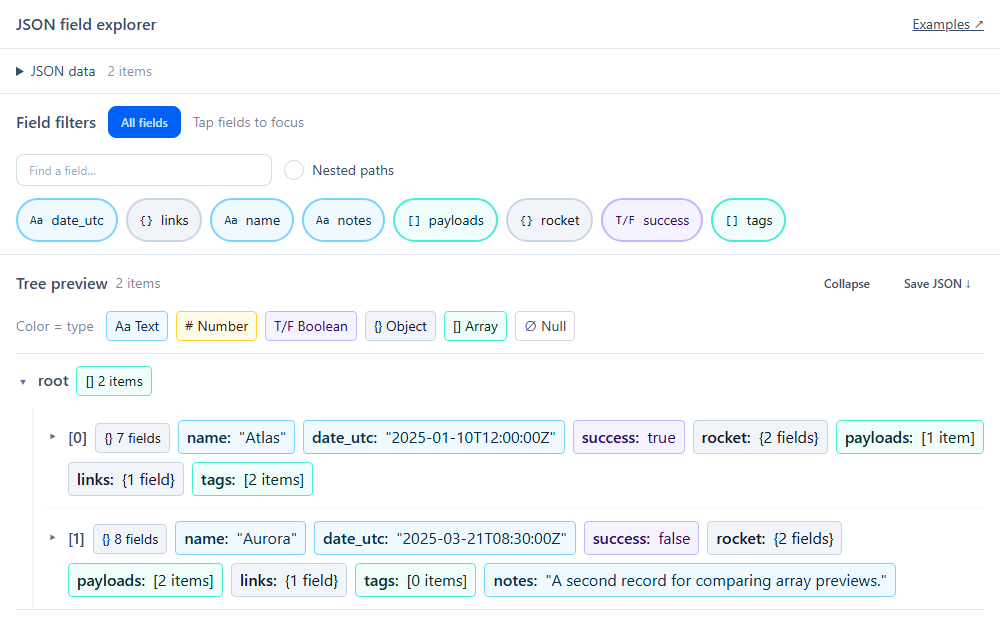
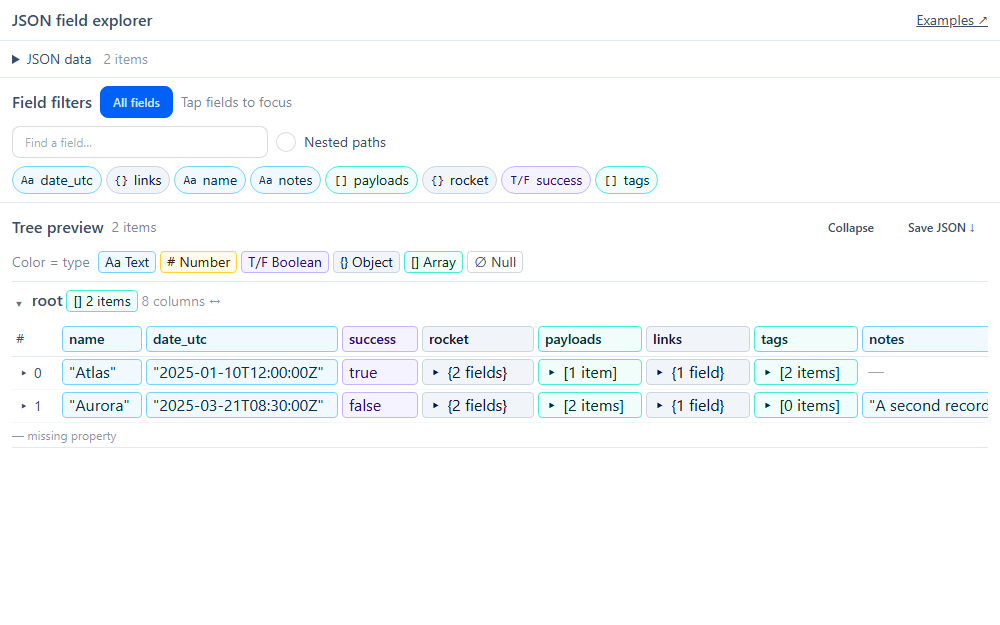
Make JSON explorer dense and align object arrays as inline tables

diff --git a/pages/json-explorer.html b/pages/json-explorer.html
@@ -8,13 +8,13 @@
   <script src="https://cdn.jsdelivr.net/combine/npm/@tailwindcss/browser@4"></script>
 </head>
 <body class="min-h-dvh bg-base-100 text-base-content">
-  <header class="sticky top-0 z-10 flex flex-wrap items-center gap-3 border-b border-base-300 bg-base-100 px-4 py-3">
+  <header class="sticky top-0 z-10 flex flex-wrap items-center gap-3 border-b border-base-300 bg-base-100 px-3 py-2">
     <h1 class="font-semibold">JSON field explorer</h1>
     <a id="examples-link" href="json-viewers.html" class="ml-auto link text-sm">Examples ↗</a>
   </header>
   <main class="min-w-0">
     <details id="data-panel" class="border-b border-base-300">
-      <summary class="cursor-pointer px-4 py-3 text-sm">JSON data <span id="data-count" class="ml-2 text-base-content/60"></span></summary>
+      <summary class="cursor-pointer px-3 py-2 text-sm">JSON data <span id="data-count" class="ml-2 text-base-content/60"></span></summary>
       <div class="grid gap-3 px-4 pb-4">
         <textarea id="sample" aria-label="JSON data" spellcheck="false" class="textarea w-full h-56 font-mono text-sm"></textarea>
         <div class="flex flex-wrap items-center gap-3">
@@ -24,33 +24,33 @@
         </div>
       </div>
     </details>
-    <section aria-labelledby="filter-heading" class="border-b border-base-300 px-4 py-3">
-      <div class="flex flex-wrap items-center gap-3">
+    <section aria-labelledby="filter-heading" class="border-b border-base-300 px-3 py-2">
+      <div class="flex flex-wrap items-center gap-2">
         <h2 id="filter-heading" class="font-semibold">Field filters</h2>
         <button id="all-fields" class="btn btn-sm btn-primary" aria-pressed="true">All fields</button>
         <span id="selection-status" role="status" class="text-sm text-base-content/70"></span>
       </div>
-      <div class="mt-3 flex items-center gap-3">
+      <div class="mt-2 flex items-center gap-2">
         <input id="field-search" type="search" class="input input-sm min-w-0 flex-1 sm:flex-none sm:w-64" placeholder="Find a field…" aria-label="Find a field">
-        <label class="flex min-h-10 shrink-0 items-center gap-2 text-sm"><input id="nested-paths" type="checkbox" class="checkbox checkbox-sm">Nested paths</label>
+        <label class="flex min-h-8 shrink-0 items-center gap-2 text-sm"><input id="nested-paths" type="checkbox" class="checkbox checkbox-sm">Nested paths</label>
       </div>
-      <div id="field-pills" class="mt-2 flex flex-wrap gap-2" role="group" aria-label="Fields to include"></div>
+      <div id="field-pills" class="mt-2 flex flex-wrap gap-1" role="group" aria-label="Fields to include"></div>
       <p id="no-fields" class="hidden py-2 text-sm text-base-content/70">No matching fields</p>
       <details id="selected-panel" class="mt-3 hidden">
         <summary id="selected-summary" class="cursor-pointer text-sm">Selected paths</summary>
-        <div id="selected-pills" class="mt-2 flex flex-wrap gap-2"></div>
+        <div id="selected-pills" class="mt-2 flex flex-wrap gap-1"></div>
       </details>
     </section>
-    <section aria-labelledby="tree-heading" class="min-w-0 px-4 py-3">
+    <section aria-labelledby="tree-heading" class="min-w-0 px-3 py-2">
       <div class="flex flex-wrap items-center gap-2">
         <h2 id="tree-heading" class="font-semibold">Tree preview</h2>
         <span id="tree-count" class="text-sm text-base-content/70"></span>
         <button id="collapse" class="btn btn-sm btn-ghost ml-auto">Collapse</button>
         <button id="download" class="btn btn-sm btn-ghost">Save JSON ↓</button>
       </div>
-      <div class="my-3 flex flex-wrap items-center gap-x-3 gap-y-2 text-sm" aria-label="Color key">
+      <div class="my-2 flex flex-wrap items-center gap-x-2 gap-y-1 text-sm" aria-label="Color key">
         <span class="text-base-content/70">Color = type</span>
-        <div id="type-key" class="flex flex-wrap gap-2"></div>
+        <div id="type-key" class="flex flex-wrap gap-1"></div>
       </div>
       <div id="tree" class="min-w-0 border-y border-base-300" aria-label="Filtered JSON tree"></div>
       <p id="load-error" class="hidden py-3 text-error" role="alert"></p>
@@ -78,8 +78,9 @@
         links: { webcast: null }, tags: [], notes: 'A second record for comparing array previews.' },
     ];
     let data = sample, fields = [], selected = new Set(), projected;
-    let kindOf, collectFields, projectFields;
+    let kindOf, collectFields, projectFields, tableColumns;
     const expanded = new Set(['[]']);
+    const tableOpen = new Map();
     const node = (tag, className, text) => {
       const element = document.createElement(tag);
       if (className) element.className = className;
@@ -95,13 +96,13 @@
     };
     function typeLabel(type) {
       const info = types[type];
-      return node('span', `inline-flex items-center gap-1 rounded border px-2 py-1 ${info.className}`, `${info.symbol} ${info.label}`);
+      return node('span', `inline-flex items-center gap-1 rounded-sm border px-1.5 leading-5 ${info.className}`, `${info.symbol} ${info.label}`);
     }
     for (const type of Object.keys(types).filter(type => type !== 'mixed')) $('type-key').append(typeLabel(type));
     function filterPill(field, removeOnly = false) {
       const info = typeFor(field), active = selected.has(field.id);
       const colors = active ? info.className.replace(/border-[a-z]+-\d+/, info.selected) : info.className;
-      const button = node('button', `inline-flex min-h-11 max-w-full items-center gap-2 rounded-full border-2 px-3 py-2 text-sm break-all text-left ${colors} ${active ? 'font-semibold' : ''}`);
+      const button = node('button', `inline-flex min-h-7 max-w-full items-center gap-1.5 rounded-full border px-2 py-0.5 text-sm leading-5 break-all text-left ${colors} ${active ? 'font-semibold' : ''}`);
       button.type = 'button'; button.dataset.fieldId = field.id;
       button.setAttribute('aria-pressed', String(active));
       button.setAttribute('aria-label', `${removeOnly ? 'Remove ' : ''}${field.label} (${field.types.map(type => types[type].label).join(', ')})`);
@@ -146,37 +147,144 @@
     }
     function chip(key, value) {
       const type = kindOf(value), info = types[type];
-      const cell = node('span', `inline-flex max-w-full flex-wrap items-baseline gap-x-2 rounded border px-2 py-1 [overflow-wrap:anywhere] ${info.className}`);
+      const cell = node('span', `inline-flex max-w-full flex-wrap items-baseline gap-x-1 rounded-sm border px-1.5 py-0.5 leading-tight [overflow-wrap:anywhere] ${info.className}`);
       cell.dataset.valueType = type;
       if (key !== null) cell.append(node('span', 'font-semibold', key + ':'));
       cell.append(node('span', '', valuePreview(value)));
       return cell;
     }
+    let tableSequence = 0;
+    function objectTable(rows, label, path, columns) {
+      const box = node('div', 'min-w-0 max-w-full');
+      const region = node('div', 'min-w-0 max-w-full overflow-x-auto');
+      region.tabIndex = 0; region.setAttribute('role', 'region');
+      region.setAttribute('aria-label', `${label}: object table, scroll horizontally for more columns`);
+      const table = node('table', 'table-fixed border-collapse text-left text-base leading-tight');
+      table.dataset.arrayPath = JSON.stringify(path);
+      table.setAttribute('aria-label', label + ' objects');
+      // Size each column once from the entire array, never separately per row.
+      const widths = columns.map(({ key }) => Math.max(80, Math.min(256,
+        20 + 8 * rows.reduce((longest, row) => Object.hasOwn(row, key) ? Math.max(longest, valuePreview(row[key]).length + (['array', 'object'].includes(kindOf(row[key])) ? 2 : 0)) : longest, key.length))));
+      table.style.width = (48 + widths.reduce((sum, width) => sum + width, 0)) + 'px';
+      const colgroup = node('colgroup');
+      for (const width of [48, ...widths]) {
+        const col = node('col'); col.style.width = width + 'px'; colgroup.append(col);
+      }
+      const head = node('thead'), headings = node('tr');
+      const indexHead = node('th', 'sticky left-0 z-10 border-b border-base-300 bg-base-100 px-1 py-1 text-sm font-normal', '#');
+      indexHead.scope = 'col'; headings.append(indexHead);
+      for (const column of columns) {
+        const info = typeFor(column);
+        const th = node('th', 'border-b border-base-300 px-0.5 py-1 text-sm font-semibold');
+        th.scope = 'col'; th.dataset.columnKey = column.key;
+        th.append(node('span', `block truncate rounded-sm border px-1.5 py-0.5 ${info.className}`, column.key.trim() ? column.key : JSON.stringify(column.key)));
+        headings.append(th);
+      }
+      head.append(headings);
+      const body = node('tbody'); table.append(colgroup, head, body); region.append(table); box.append(region);
+      if (rows.some(row => columns.some(({ key }) => !Object.hasOwn(row, key)))) box.append(node('div', 'pt-1 text-xs text-base-content/60', '— missing property'));
+      let painted = 0;
+      function addRow(index) {
+        const value = rows[index], rowPath = [...path, String(index)], rowId = JSON.stringify(rowPath);
+        const row = node('tr'); row.dataset.itemIndex = String(index);
+        const detailRow = node('tr'), detailCell = node('td', 'border-b border-base-300 p-1');
+        detailCell.colSpan = columns.length + 1;
+        const panel = node('div', 'sticky left-0 min-w-0 max-w-[calc(100vw-6rem)] border-l-2 border-base-300 pl-2');
+        panel.id = 'array-detail-' + (++tableSequence);
+        detailCell.append(panel); detailRow.append(detailCell);
+        const buttons = new Map();
+        function buttonFor(key, text, className) {
+          const button = node('button', className, text);
+          button.type = 'button'; button.setAttribute('aria-controls', panel.id);
+          button.setAttribute('aria-label', key === null ? `Expand item ${index}` : `Inspect ${key.trim() ? key : JSON.stringify(key)} in item ${index}: ${valuePreview(value[key])}`);
+          button.addEventListener('click', () => {
+            if (tableOpen.has(rowId) && (key === null || tableOpen.get(rowId) === key)) tableOpen.delete(rowId);
+            else {
+              tableOpen.set(rowId, key);
+              expanded.add(JSON.stringify(key === null ? rowPath : [...rowPath, key]));
+            }
+            showDetail();
+          });
+          buttons.set(key, button); return button;
+        }
+        const indexCell = node('th', 'sticky left-0 z-10 border-b border-base-200 bg-base-100 p-0.5 font-normal');
+        indexCell.scope = 'row';
+        const indexButton = buttonFor(null, `▸ ${index}`, 'block w-full rounded-sm px-1 py-1 text-left text-sm hover:bg-base-200 focus-visible:outline-2');
+        indexCell.append(indexButton); row.append(indexCell);
+        for (const { key } of columns) {
+          const cell = node('td', 'border-b border-base-200 p-0.5 align-top');
+          cell.dataset.columnKey = key;
+          if (Object.hasOwn(value, key)) {
+            const type = kindOf(value[key]), info = types[type];
+            const text = (type === 'array' || type === 'object' ? '▸ ' : '') + valuePreview(value[key]);
+            const button = buttonFor(key, text, `block w-full truncate rounded-sm border px-1.5 py-0.5 text-left leading-tight aria-expanded:font-semibold aria-expanded:underline underline-offset-2 ${info.className}`);
+            button.dataset.valueType = type; cell.append(button);
+          } else {
+            const missing = node('span', 'block px-1.5 py-0.5 text-base-content/50', '—');
+            missing.setAttribute('aria-label', 'Missing property'); cell.append(missing);
+          }
+          row.append(cell);
+        }
+        body.append(row, detailRow);
+        function showDetail() {
+          const key = tableOpen.get(rowId);
+          if (tableOpen.has(rowId) && key !== null && !Object.hasOwn(value, key)) tableOpen.delete(rowId);
+          const active = tableOpen.has(rowId);
+          for (const [buttonKey, button] of buttons) button.setAttribute('aria-expanded', String(active && key === buttonKey));
+          indexButton.setAttribute('aria-expanded', String(active));
+          indexButton.setAttribute('aria-label', `${active ? 'Collapse' : 'Expand'} item ${index}`);
+          indexButton.textContent = `${active ? '▾' : '▸'} ${index}`;
+          detailRow.hidden = !active;
+          if (!active) { panel.replaceChildren(); return; }
+          panel.replaceChildren(treeNode(key === null ? value : value[key], key === null ? `[${index}]` : key, key === null ? rowPath : [...rowPath, key], true));
+        }
+        showDetail();
+        return indexButton;
+      }
+      const more = node('button', 'btn btn-sm btn-ghost my-1'); more.type = 'button';
+      function paint() {
+        more.remove();
+        const end = Math.min(rows.length, painted + 100);
+        let first;
+        for (; painted < end; painted++) { const button = addRow(painted); first ||= button; }
+        if (painted < rows.length) {
+          more.textContent = `Show next ${Math.min(100, rows.length - painted)} · ${rows.length - painted} remaining`;
+          box.append(more);
+        }
+        return first;
+      }
+      more.addEventListener('click', () => paint()?.focus());
+      paint();
+      return box;
+    }
     function treeNode(value, label, path, root = false) {
       const type = kindOf(value), info = types[type], container = type === 'object' || type === 'array';
       if (!container) {
-        const row = node('div', 'flex min-w-0 flex-wrap items-baseline gap-2 py-2');
-        row.append(node('span', 'font-semibold break-all', label + ':'), node('span', `rounded border px-2 py-1 whitespace-pre-wrap break-all ${info.className}`, JSON.stringify(value)));
+        const row = node('div', 'flex min-w-0 flex-wrap items-baseline gap-1.5 py-1');
+        row.append(node('span', 'font-semibold break-all', label + ':'), node('span', `rounded-sm border px-1.5 py-0.5 leading-tight whitespace-pre-wrap break-all ${info.className}`, JSON.stringify(value)));
         row.dataset.valueType = type;
         return row;
       }
       const id = JSON.stringify(path), entries = Object.entries(value);
+      const columns = tableColumns(value);
       const detail = node('details', 'min-w-0 border-b border-base-200 last:border-b-0');
       detail.dataset.treePath = id;
-      const summary = node('summary', 'flex cursor-pointer list-none items-start gap-2 py-3 [&::-webkit-details-marker]:hidden');
+      const summary = node('summary', 'flex cursor-pointer list-none items-start gap-1.5 py-1.5 [&::-webkit-details-marker]:hidden');
       const arrow = node('span', 'mt-1 shrink-0 text-slate-500', expanded.has(id) ? '▾' : '▸');
       arrow.setAttribute('aria-hidden', 'true');
-      const line = node('span', 'flex min-w-0 flex-1 flex-wrap items-baseline gap-2');
-      line.append(node('span', 'font-semibold break-all', label), node('span', `rounded border px-2 py-1 text-sm ${info.className}`, `${info.symbol} ${count(value)}`));
-      if (!root) for (const [key, child] of entries.slice(0, 8)) line.append(chip(type === 'array' ? `[${key}]` : key, child));
-      if (!root && entries.length > 8) line.append(node('span', 'text-sm text-base-content/70', `+${entries.length - 8} more`));
+      const line = node('span', 'flex min-w-0 flex-1 flex-wrap items-baseline gap-1');
+      line.append(node('span', 'font-semibold break-all', label), node('span', `rounded-sm border px-1.5 text-sm leading-5 ${info.className}`, `${info.symbol} ${count(value)}`));
+      if (columns !== null) line.append(node('span', 'text-sm text-base-content/60', `${columns.length} columns ↔`));
+      if (!root && columns === null) for (const [key, child] of entries.slice(0, 8)) line.append(chip(type === 'array' ? `[${key}]` : key, child));
+      if (!root && columns === null && entries.length > 8) line.append(node('span', 'text-sm text-base-content/70', `+${entries.length - 8} more`));
       summary.append(arrow, line);
-      const children = node('div', 'ml-2 min-w-0 border-l-2 border-base-200 pl-3 sm:ml-4');
+      const children = node('div', columns === null ? 'ml-2 min-w-0 border-l-2 border-base-200 pl-2' : 'min-w-0 pb-1');
       let painted = 0, populated = false;
       const more = node('button', 'btn btn-sm btn-ghost my-2', 'Show more');
       more.type = 'button';
       function paint() {
         populated = true;
+        if (columns !== null) { children.append(objectTable(value, label, path, columns)); return; }
         more.remove();
         const end = Math.min(entries.length, painted + 100);
         for (; painted < end; painted++) {
@@ -217,7 +325,7 @@
       data = value; fields = collectFields(data);
       if (Array.isArray(data) && data.length && data.every(row => kindOf(row) === 'object')) fields = fields.filter(field => field.id !== '[null]');
       $('type-key').replaceChildren(...Object.keys(types).filter(type => type !== 'mixed' || fields.some(field => field.types.length > 1)).map(typeLabel));
-      selected.clear(); expanded.clear(); expanded.add('[]');
+      selected.clear(); expanded.clear(); expanded.add('[]'); tableOpen.clear();
       $('data-count').textContent = count(data);
       $('field-search').value = '';
       render();
@@ -237,7 +345,7 @@
     $('field-search').addEventListener('input', renderPills);
     $('nested-paths').addEventListener('change', renderPills);
     $('all-fields').addEventListener('click', () => { selected.clear(); render(); });
-    $('collapse').addEventListener('click', () => { expanded.clear(); expanded.add('[]'); render(); });
+    $('collapse').addEventListener('click', () => { expanded.clear(); expanded.add('[]'); tableOpen.clear(); render(); });
     $('download').addEventListener('click', () => {
       const url = URL.createObjectURL(new Blob([JSON.stringify(projected, null, 2)], { type: 'application/json' }));
       const link = node('a'); link.href = url; link.download = 'filtered.json'; link.click();
@@ -248,7 +356,7 @@
       const response = await fetch('json-viewers/field-model.js');
       if (!response.ok) throw new Error(`Could not load the field explorer (${response.status}).`);
       const moduleURL = URL.createObjectURL(new Blob([await response.text()], { type: 'text/javascript' }));
-      try { ({ kindOf, collectFields, projectFields } = await import(moduleURL)); }
+      try { ({ kindOf, collectFields, projectFields, tableColumns } = await import(moduleURL)); }
       finally { URL.revokeObjectURL(moduleURL); }
       load(sample);
     } catch (error) { $('load-error').textContent = error.message; $('load-error').classList.remove('hidden'); }

diff --git a/pages/json-viewers/field-model.js b/pages/json-viewers/field-model.js
@@ -4,6 +4,22 @@ export function kindOf(value) {
   return Array.isArray(value) ? 'array' : typeof value;
 }
 
+/** Share one column order across an array of JSON records, including late and missing keys. */
+export function tableColumns(value) {
+  if (!Array.isArray(value) || value.length === 0) return null;
+  const columns = new Map();
+  for (const row of value) {
+    if (kindOf(row) !== 'object') return null;
+    const prototype = Object.getPrototypeOf(row);
+    if (prototype !== Object.prototype && prototype !== null) return null;
+    for (const [key, item] of Object.entries(row)) {
+      if (!columns.has(key)) columns.set(key, new Set());
+      columns.get(key).add(kindOf(item));
+    }
+  }
+  return [...columns].map(([key, types]) => ({ key, types: [...types].sort() }));
+}
+
 function fieldLabel(segments) {
   let label = '';
   for (const [index, segment] of segments.entries()) {
